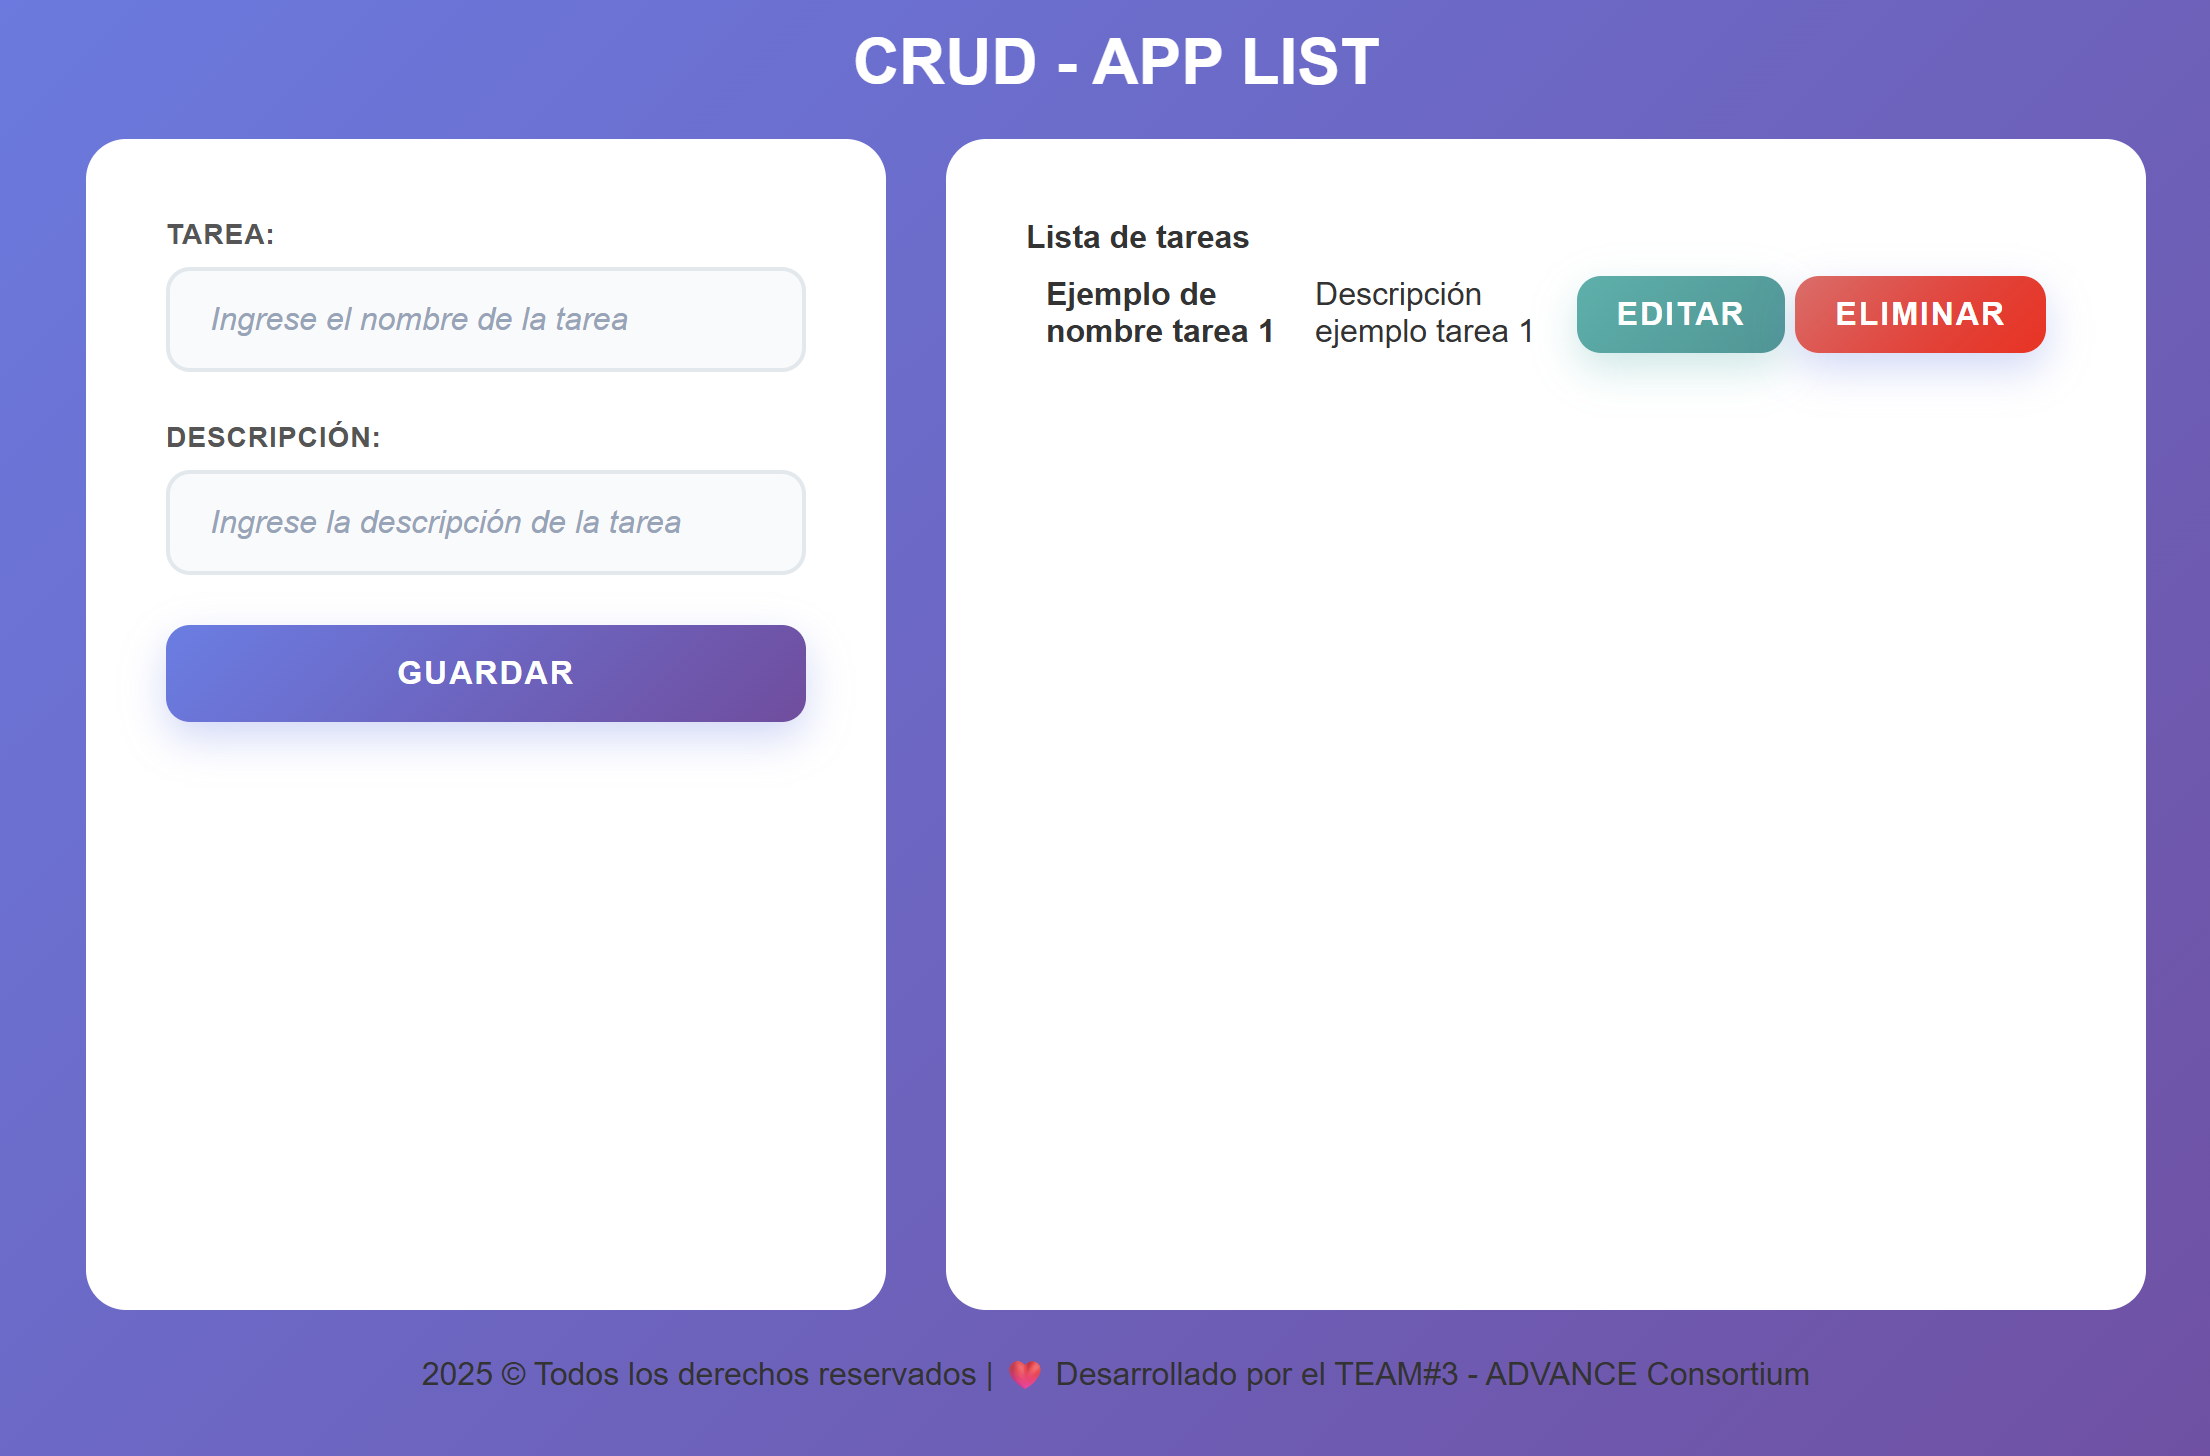
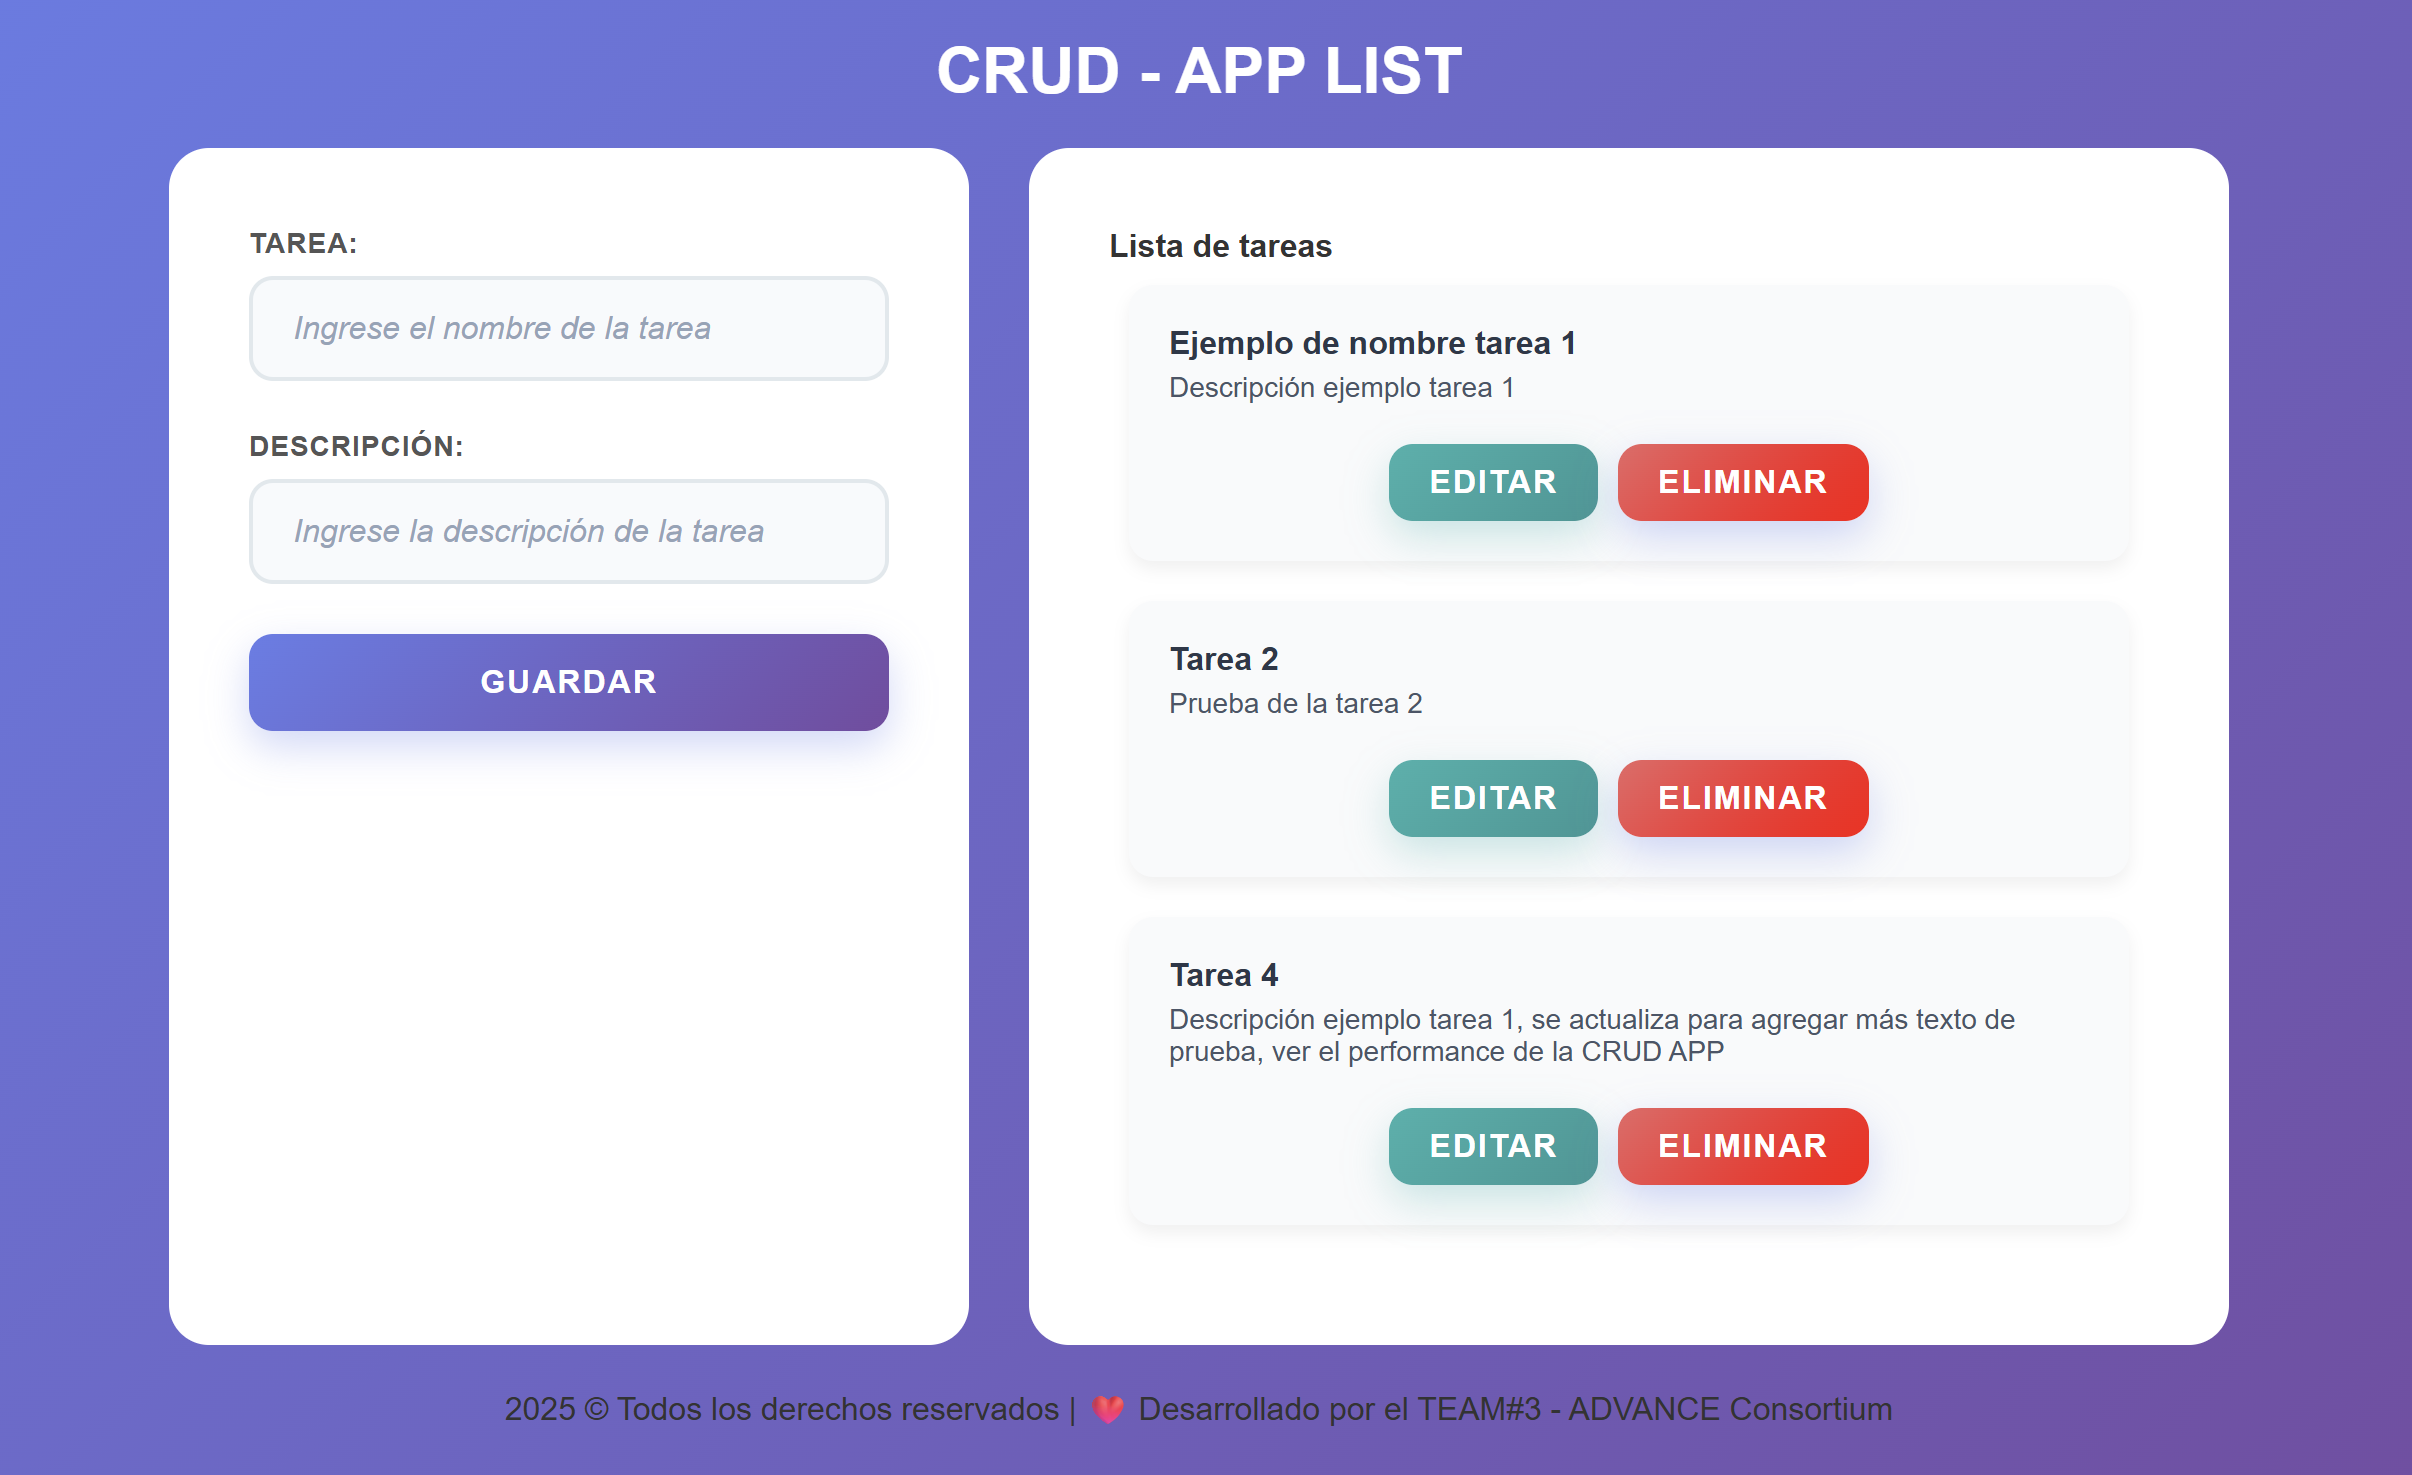
update styles in list task

diff --git a/app.js b/app.js
@@ -62,10 +62,14 @@ class DataManager{
             const div = document.createElement("div");
             div.classList.add("item");
             div.innerHTML = `
-                <strong>${item.name}</strong><br>
-                <span>${item.description}</span><br>
-                <button class="editar" data-index="${index}">Editar</button>
-                <button class="eliminar" data-index="${index}">Eliminar</button>
+                <div class="item-content">
+                    <div class="item-title">${item.name}</div>
+                    <div class="item-description">${item.description}</div>
+                </div>
+                <div class="item-actions">
+                    <button class="editar" data-index="${index}">Editar</button>
+                    <button class="eliminar" data-index="${index}">Eliminar</button>
+                </div>
             `;
             this.elementsList.appendChild(div);
             });

diff --git a/styles.css b/styles.css
@@ -114,13 +114,50 @@ main {
 
 .items-list {
   margin: 10px;
-  jutify-content: center;
+  justify-content: center;
   align-items: center;
+}
+
+.item-content {
+  display: flex;
+  flex-direction: column;
+  gap: 5px;
+  align-items: flex-start;
+  text-align: left;
+  width: 100%;
+}
+.item-title {
+  font-weight: bold;
+  font-size: 16px;
+  color: #2d3748;
+  word-break: break-word;
+}
+
+.item-description {
+  font-size: 14px;
+  color: #4a5568;
+  word-break: break-word;
+}
+
+.item-actions {
+  display: flex;
+  gap: 10px;
+  justify-content: center;
+  margin-top: 10px;
+  flex-wrap: wrap;
 }
 
 .item {
   display: flex;
-  gap: 5px;
+  flex-direction: column;
+  align-items: center;
+  text-align: center;
+  gap: 10px;
+  padding: 20px;
+  margin-bottom: 20px;
+  background-color: #f9fafb;
+  border-radius: 12px;
+  box-shadow: 0 4px 8px rgba(0, 0, 0, 0.06);
 }
 
 
